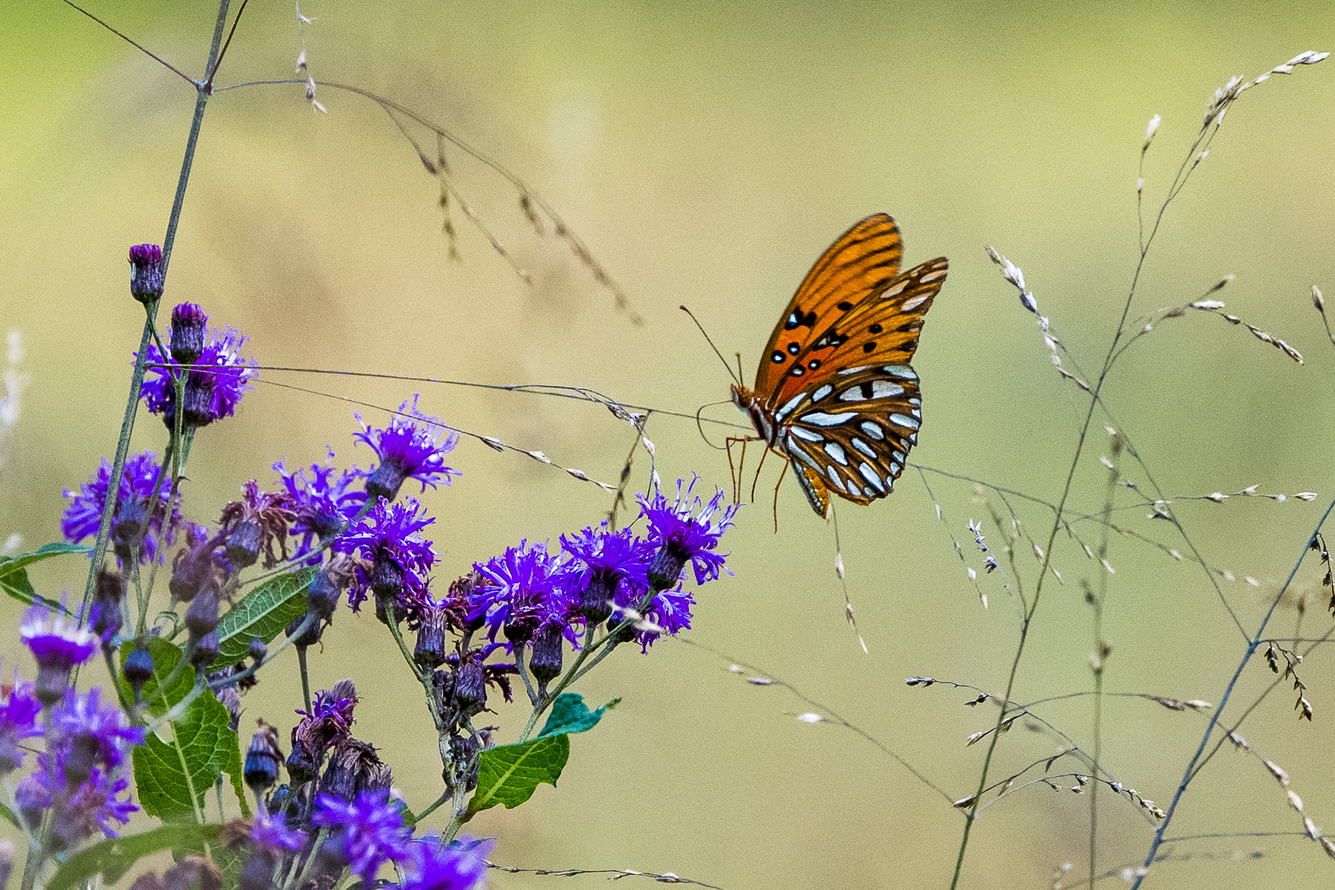
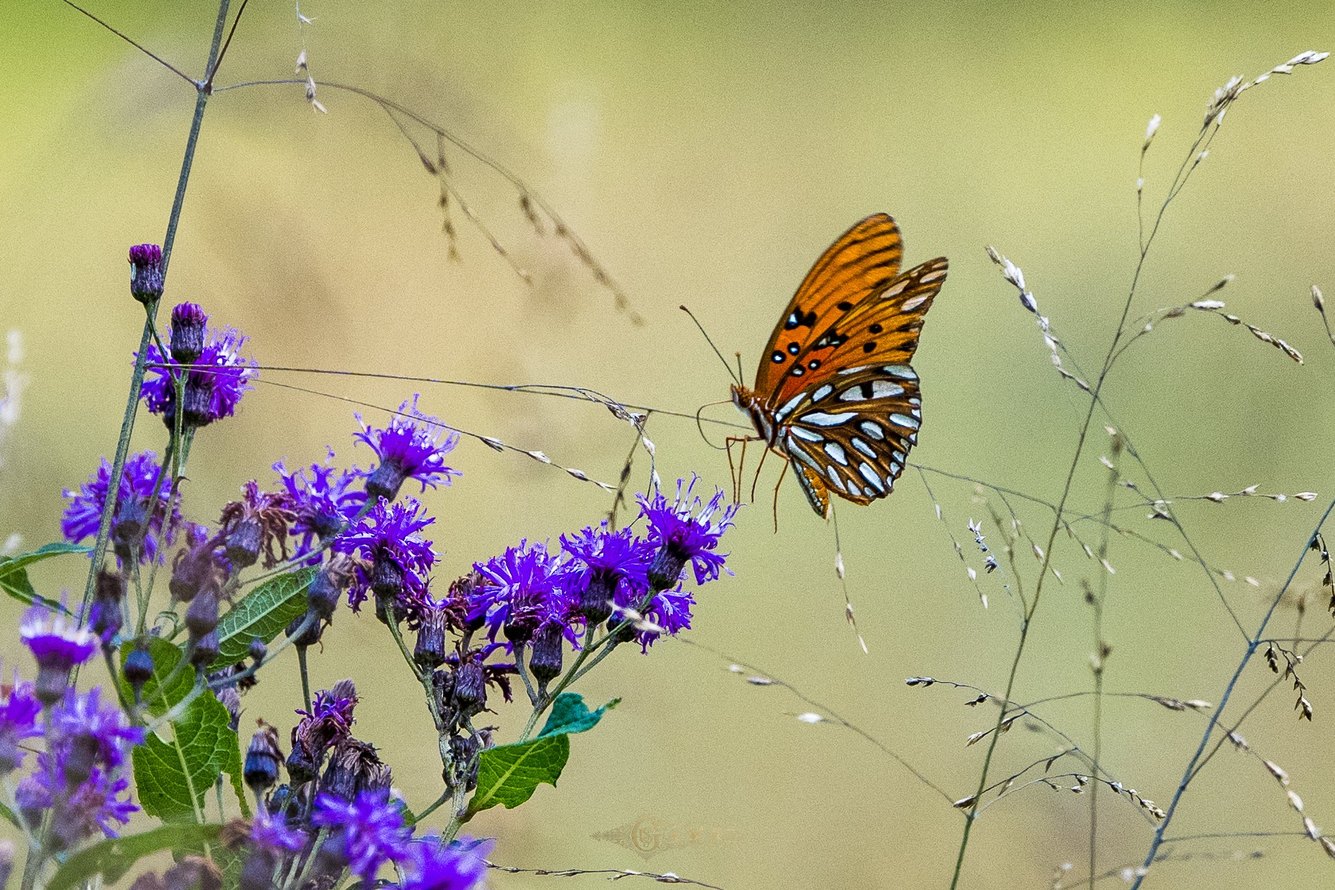
Adding watermarked images

diff --git a/watermark_watcher.py b/watermark_watcher.py
@@ -1,17 +1,11 @@
 """
-watermark_watcher.py
---------------------
-Watches assets/img/portfolio/ subfolders for new photos and automatically
-applies the watermark (bottom center, semi-transparent) to each one.
-
-Original photos are preserved in a sibling folder called `originals/`.
-Watermarked versions replace the file in-place for the website.
+watermark_processor.py
+----------------------
+Scans assets/img/photography/ subfolders once, applies watermarks,
+saves originals, and exits. No active watching.
 
 Usage:
-    python watermark_watcher.py
-
-Requirements:
-    pip install Pillow watchdog
+    python watermark_processor.py
 """
 
 import time
@@ -20,36 +14,24 @@ import logging
 from pathlib import Path
 from PIL import Image
 import numpy as np
-from watchdog.observers import Observer
-from watchdog.events import FileSystemEventHandler
 
 # ─────────────────────────────────────────────
-# CONFIG — adjust these paths if needed
+# CONFIG — Updated to your 'photography' path
 # ─────────────────────────────────────────────
 
-# Root of your Jekyll repo (folder containing assets/)
 REPO_ROOT = Path(__file__).parent
 
-# Folders to watch (relative to repo root)
-WATCH_FOLDERS = [
-    REPO_ROOT / "assets" / "img" / "portfolio" / "landscape",
-    REPO_ROOT / "assets" / "img" / "portfolio" / "wildlife",
-    REPO_ROOT / "assets" / "img" / "portfolio" / "portraits",
+# Folders to scan (relative to repo root)
+SCAN_FOLDERS = [
+    REPO_ROOT / "assets" / "img" / "photography" / "landscape",
+    REPO_ROOT / "assets" / "img" / "photography" / "wildlife",
+    REPO_ROOT / "assets" / "img" / "photography" / "portraits",
 ]
 
-# Your watermark image (place watermark.png next to this script)
 WATERMARK_PATH = REPO_ROOT / "watermark.png"
-
-# Watermark size as a fraction of the photo's width
 WATERMARK_WIDTH_RATIO = 0.12
-
-# Watermark opacity (0.0 = invisible, 1.0 = fully opaque)
 WATERMARK_OPACITY = 0.55
-
-# Bottom margin as a fraction of photo height
 BOTTOM_MARGIN_RATIO = 0.03
-
-# Supported image extensions
 IMAGE_EXTENSIONS = {".jpg", ".jpeg", ".png", ".webp", ".tiff"}
 
 # ─────────────────────────────────────────────
@@ -60,223 +42,117 @@ logging.basicConfig(
     datefmt="%H:%M:%S",
 )
 log = logging.getLogger("watermark")
-
-# Remove Pillow's decompression bomb limit (default is ~178MP)
-# Safe to disable here since we control the input files
 Image.MAX_IMAGE_PIXELS = None
- 
-# Disable Pillow's decompression bomb limit (default is ~179MP which is too
-# small for high-resolution photography files). Set to None = no limit.
-Image.MAX_IMAGE_PIXELS = None
-
-def wait_for_file(path: Path, timeout: int = 30) -> bool:
-    """
-    Wait until a file is fully written and released by Windows.
-    Polls file size stability then tries an exclusive open.
-    Returns True if ready, False if timed out.
-    """
-    deadline = time.time() + timeout
-    last_size = -1
-
-    while time.time() < deadline:
-        try:
-            current_size = path.stat().st_size
-            if current_size == 0:
-                time.sleep(0.5)
-                continue
-            if current_size == last_size:
-                # Size is stable — try exclusive open to confirm released
-                with open(path, "rb+"):
-                    return True
-            last_size = current_size
-            time.sleep(0.5)
-        except (PermissionError, OSError):
-            # File still locked by another process — keep waiting
-            time.sleep(0.5)
-
-    log.error(f"Timed out waiting for file to be released: {path.name}")
-    return False
-
 
 def remove_white_background(wm_img: Image.Image) -> Image.Image:
     """Convert white/cream background of watermark to transparent."""
     wm = wm_img.convert("RGBA")
     data = np.array(wm)
     r, g, b, a = data[:,:,0], data[:,:,1], data[:,:,2], data[:,:,3]
-
     brightness = (r.astype(int) + g.astype(int) + b.astype(int)) / 3
     max_rgb = np.maximum(np.maximum(r.astype(int), g.astype(int)), b.astype(int))
     min_rgb = np.minimum(np.minimum(r.astype(int), g.astype(int)), b.astype(int))
     saturation = max_rgb - min_rgb
-
     is_background = (brightness > 200) & (saturation < 40)
     semi_bg = (brightness > 170) & (saturation < 60) & ~is_background
-
     data[:,:,3] = np.where(is_background, 0, a)
     data[:,:,3] = np.where(semi_bg, (data[:,:,3] * 0.4).astype(np.uint8), data[:,:,3])
-
     return Image.fromarray(data)
 
-
 def prepare_watermark(photo_width: int) -> Image.Image:
-    """Load, clean, resize and apply opacity to the watermark."""
     wm = Image.open(WATERMARK_PATH)
     wm = remove_white_background(wm)
-
     target_w = int(photo_width * WATERMARK_WIDTH_RATIO)
     ratio = target_w / wm.width
     target_h = int(wm.height * ratio)
     wm = wm.resize((target_w, target_h), Image.LANCZOS)
-
     data = np.array(wm)
     data[:,:,3] = (data[:,:,3] * WATERMARK_OPACITY).astype(np.uint8)
     return Image.fromarray(data)
 
-
 def apply_watermark(photo_path: Path):
     """Apply watermark to a single photo, saving original first."""
     try:
-        # Skip cover images
         if photo_path.stem == "cover":
-            log.info(f"Skipping cover image: {photo_path.name}")
-            return
+            return False
 
-        # Wait for Windows to fully release the file before touching it
-        log.info(f"Waiting for file to be ready: {photo_path.name}")
-        if not wait_for_file(photo_path):
-            log.error(f"Skipping {photo_path.name} — could not access file.")
-            return
-
-        # Save original
         originals_dir = photo_path.parent / "originals"
         originals_dir.mkdir(exist_ok=True)
         original_dest = originals_dir / photo_path.name
 
+        # Save original if it doesn't exist
         if not original_dest.exists():
             shutil.copy2(photo_path, original_dest)
-            log.info(f"Original saved → originals/{photo_path.name}")
-        else:
-            log.info(f"Original already backed up: {photo_path.name}")
-
-        # Open photo
+        
+        # Open and process
         photo = Image.open(photo_path).convert("RGBA")
         photo_w, photo_h = photo.size
-
-        # Prepare watermark
         wm = prepare_watermark(photo_w)
         wm_w, wm_h = wm.size
 
-        # Position: bottom center
         x = (photo_w - wm_w) // 2
         y = photo_h - wm_h - int(photo_h * BOTTOM_MARGIN_RATIO)
 
-        # Composite
         canvas = Image.new("RGBA", photo.size, (0, 0, 0, 0))
         canvas.paste(photo, (0, 0))
         canvas.paste(wm, (x, y), wm)
 
-        # Save (convert back to RGB for JPEGs)
         ext = photo_path.suffix.lower()
         if ext in {".jpg", ".jpeg"}:
-            canvas.convert("RGB").save(photo_path, quality=95)
+            # Lowered quality slightly to 85% to help with your Git file size issues
+            canvas.convert("RGB").save(photo_path, quality=85, optimize=True)
         else:
             canvas.save(photo_path)
-
-        log.info(f"Watermarked: {photo_path.name}")
-
+        
+        log.info(f"Successfully processed: {photo_path.name}")
+        return True
     except Exception as e:
         log.error(f"Failed to watermark {photo_path.name}: {e}")
+        return False
 
-
-def is_already_watermarked(photo_path: Path) -> bool:
-    """Check if original already exists (meaning it was already processed)."""
+def is_already_processed(photo_path: Path) -> bool:
+    """Check if the photo is already in the originals folder."""
     original = photo_path.parent / "originals" / photo_path.name
     return original.exists()
 
-
-class PhotoHandler(FileSystemEventHandler):
-    def on_created(self, event):
-        if event.is_directory:
-            return
-        path = Path(event.src_path)
-        if path.suffix.lower() not in IMAGE_EXTENSIONS:
-            return
-        if path.parent.name == "originals":
-            return  # ignore files created inside originals/
-
-        log.info(f"New photo detected: {path.name}")
-        apply_watermark(path)  # wait_for_file handles all timing internally
-
-    def on_modified(self, event):
-        # Ignore modifications — only process new files
-        pass
-
-
-def process_existing(folder: Path):
-    """Watermark any existing photos in the folder that haven't been processed."""
-    count = 0
-    for f in sorted(folder.iterdir()):
-        if f.is_file() and f.suffix.lower() in IMAGE_EXTENSIONS:
-            if f.stem == "cover":
-                continue
-            if is_already_watermarked(f):
-                log.info(f"Already watermarked, skipping: {f.name}")
-                continue
-            apply_watermark(f)
-            count += 1
-    return count
-
-
 def main():
     if not WATERMARK_PATH.exists():
-        log.error(f"Watermark file not found at: {WATERMARK_PATH}")
-        log.error("Place watermark.png in the same folder as this script.")
+        log.error(f"Watermark not found at: {WATERMARK_PATH}")
         return
 
-    # Create watch folders if they don't exist
-    for folder in WATCH_FOLDERS:
-        folder.mkdir(parents=True, exist_ok=True)
+    log.info("=" * 55)
+    log.info("Starting Photography Watermark Scan")
+    log.info("=" * 55)
+
+    total_watermarked = 0
+
+    for folder in SCAN_FOLDERS:
+        if not folder.exists():
+            log.warning(f"Skipping missing folder: {folder}")
+            continue
+
+        log.info(f"Scanning folder: {folder.name}...")
+        
+        for file_path in folder.iterdir():
+            # Skip directories (like 'originals') and non-images
+            if file_path.is_dir() or file_path.suffix.lower() not in IMAGE_EXTENSIONS:
+                continue
+            
+            # Skip covers
+            if file_path.stem == "cover":
+                continue
+
+            # Check if processed
+            if is_already_processed(file_path):
+                continue
+
+            # Process
+            if apply_watermark(file_path):
+                total_watermarked += 1
 
     log.info("=" * 55)
-    log.info("Photography Watermark Watcher")
+    log.info(f"Scan Complete. Total images watermarked: {total_watermarked}")
     log.info("=" * 55)
-    log.info(f"Watermark: {WATERMARK_PATH.name}")
-    log.info(f"Opacity:   {int(WATERMARK_OPACITY * 100)}%")
-    log.info(f"Size:      {int(WATERMARK_WIDTH_RATIO * 100)}% of photo width")
-    log.info(f"Position:  Bottom center")
-    log.info("")
-
-    # Process any existing unprocessed photos first
-    total = 0
-    for folder in WATCH_FOLDERS:
-        log.info(f"Scanning: {folder.relative_to(REPO_ROOT)}")
-        total += process_existing(folder)
-    if total:
-        log.info(f"Processed {total} existing photo(s).")
-    else:
-        log.info("No unprocessed existing photos found.")
-
-    log.info("")
-    log.info("Watching for new photos... (Press Ctrl+C to stop)")
-    log.info("")
-
-    # Start watching
-    observer = Observer()
-    handler = PhotoHandler()
-    for folder in WATCH_FOLDERS:
-        observer.schedule(handler, str(folder), recursive=False)
-        log.info(f"Watching: {folder.relative_to(REPO_ROOT)}")
-
-    observer.start()
-    try:
-        while True:
-            time.sleep(1)
-    except KeyboardInterrupt:
-        log.info("Stopping watcher...")
-        observer.stop()
-    observer.join()
-    log.info("Done.")
-
 
 if __name__ == "__main__":
     main()
